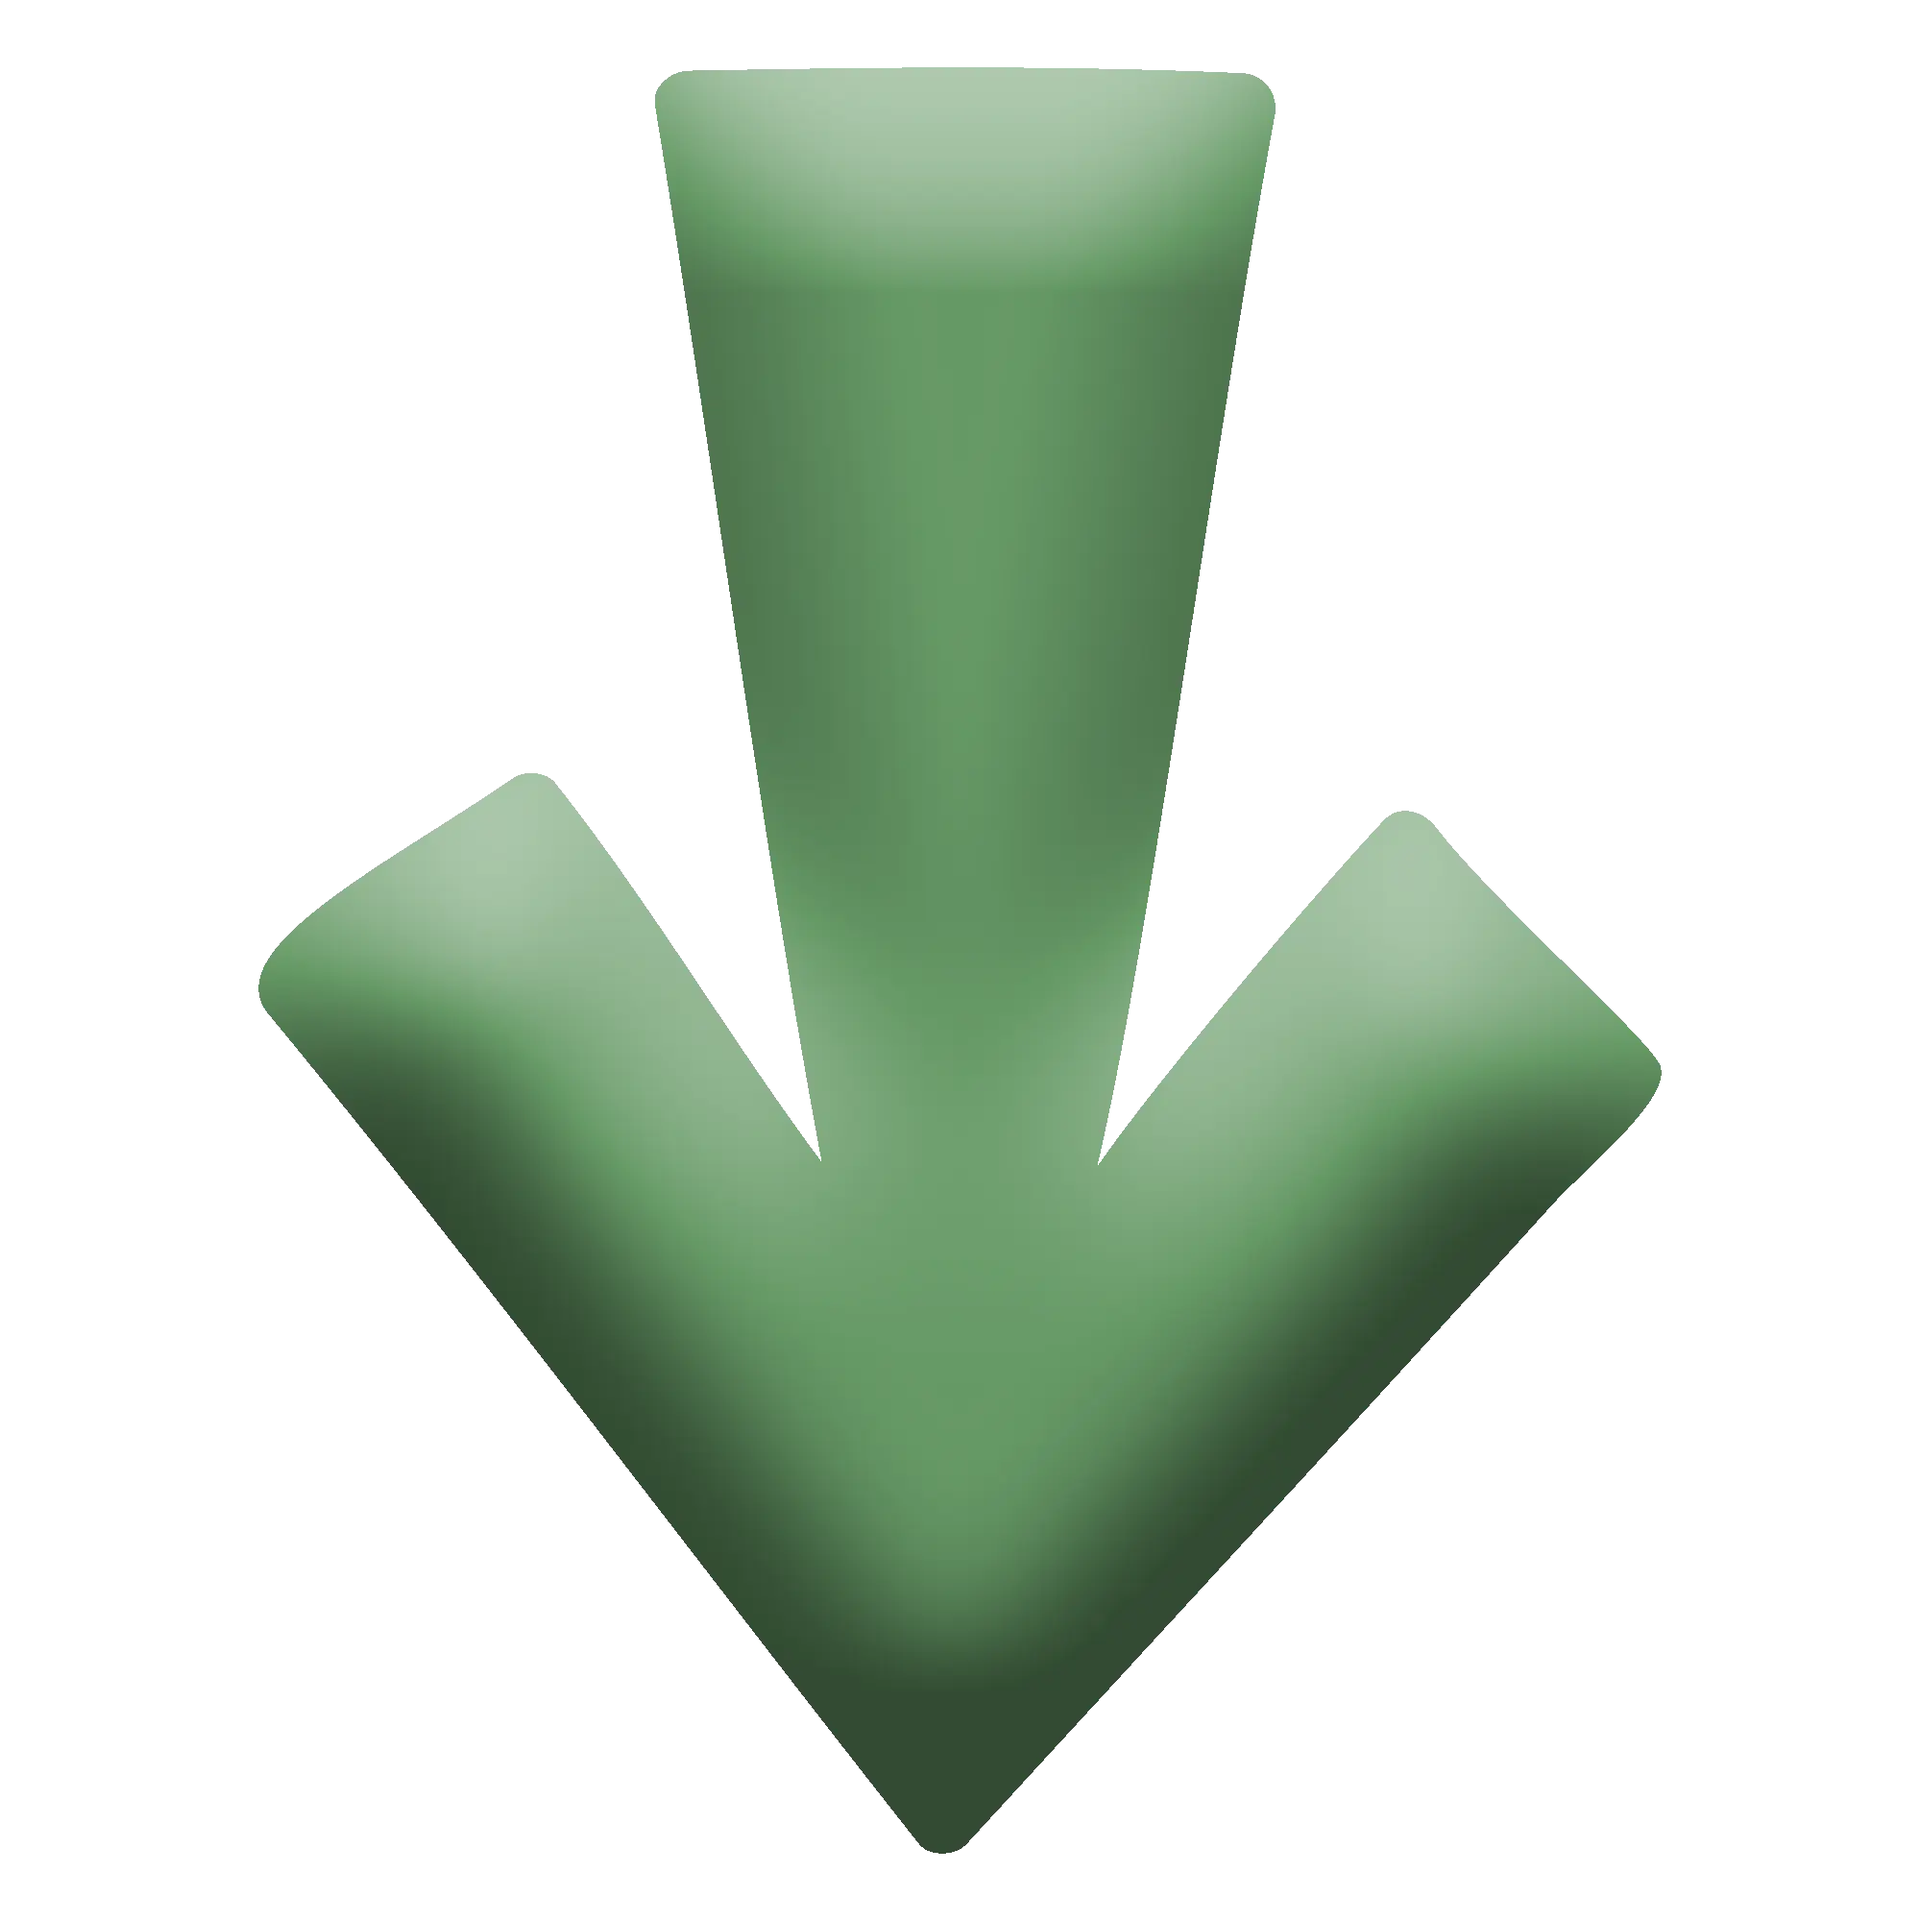
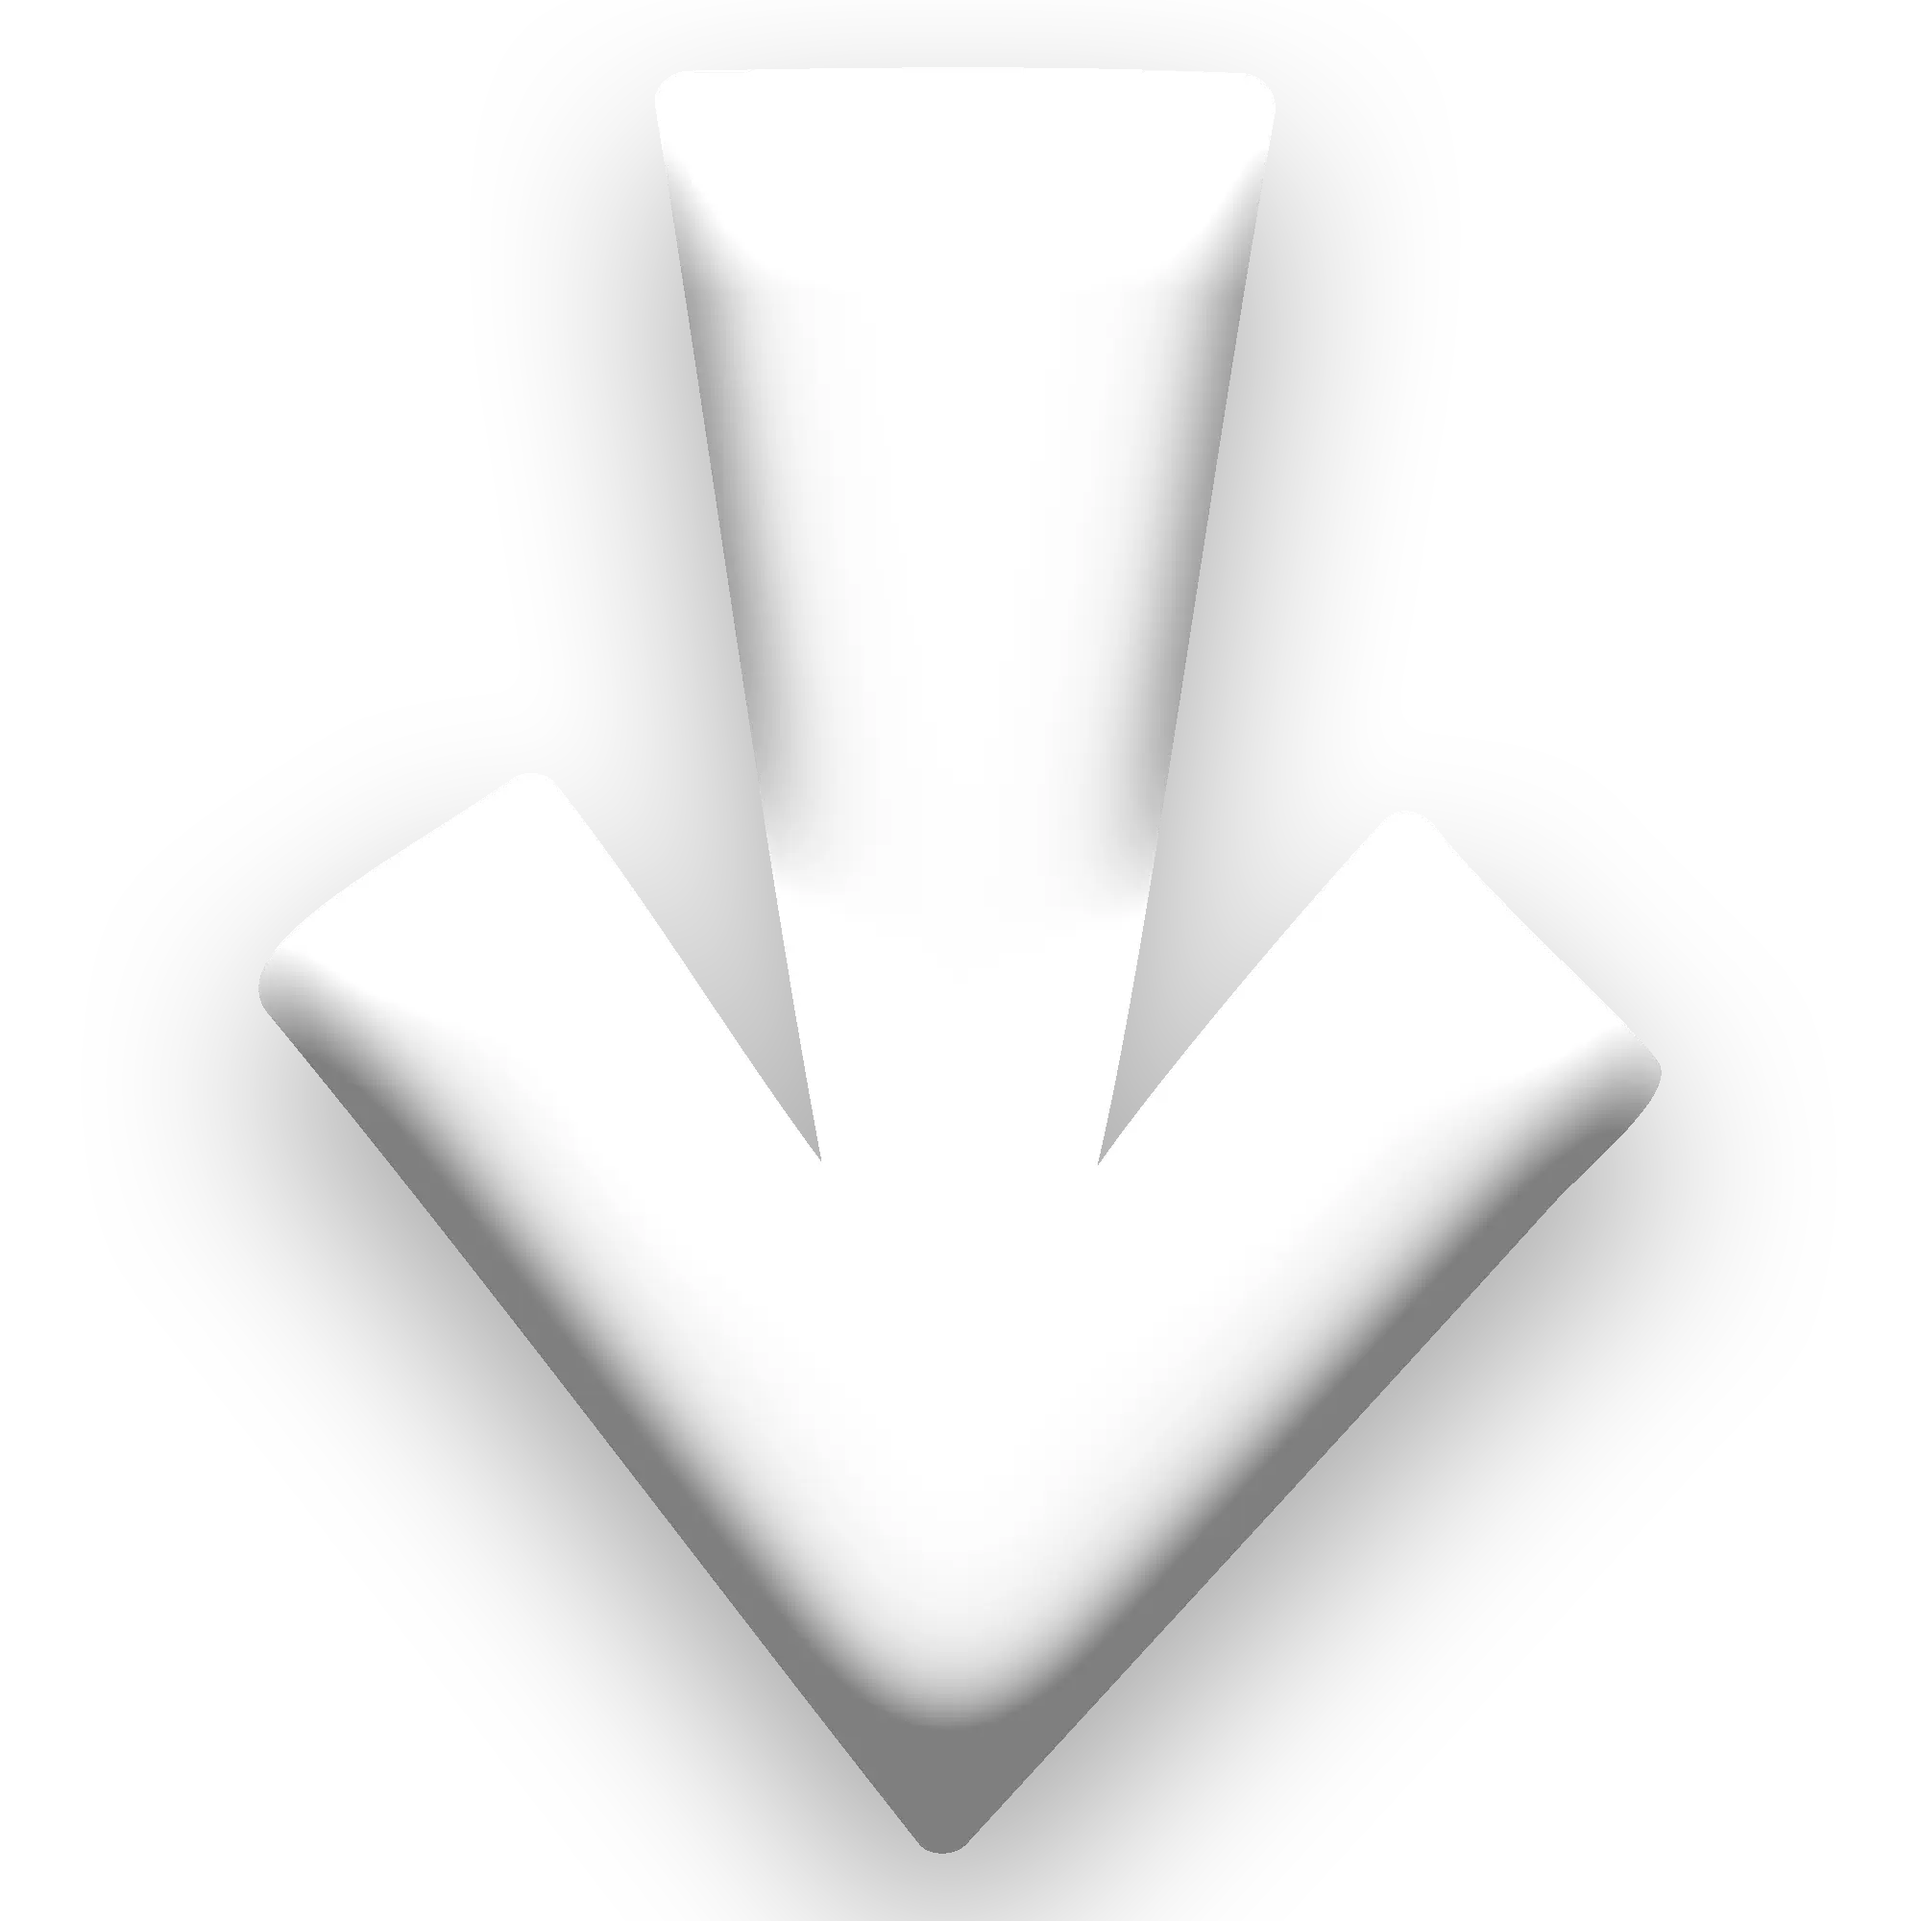
q
q

diff --git a/contenido.html b/contenido.html
@@ -46,19 +46,19 @@
         <p class="hero-location">Tuluá Valle del Cauca</p>   
         <p class="hero-location">Descubre nuestra historia - Baja para continuar</p>  
         <div class="invite-card-decoration">
-            <img src="assets/Flechas.webp" class="flor-responsiva" alt="Flor">
+            <img src="assets/Flechas.webp" class="flecha-responsiva" alt="Continuar abajo">
         </div>
     </div>
 </section>
 
 <!-- 2. FOTO INTERMEDIA (NO TIENE FLORES) -->
 <div class="seccion-foto-intermedia">
-    <img src="assets/pareja2.webp" alt="Momento especial" class="foto-pareja">
+    <img src="assets/pareja2.webp" alt="Momento especial" class="foto-pareja" loading="lazy">
 </div>
 
 <!-- CONTROL DE MÚSICA LOCAL -->
 <button id="musicButton" class="music-button hidden" aria-label="Activar música">🔇</button>
-<audio id="weddingMusic" loop preload="auto">
+<audio id="weddingMusic" loop preload="none">
     <source src="assets/1.mp3" type="audio/mpeg">
 </audio>
 
@@ -76,7 +76,7 @@
     <p class="story-text">En el transcurso de estos años hemos recorrido caminos llenos de sol, risas y lugares inolvidables, pero también nos ha tocado atravesar etapas difíciles. Lo verdaderamente hermoso de nuestra historia no ha sido la ausencia de tormentas, sino que jamás nos hemos soltado la mano. Hemos luchado lado a lado, amándonos con más fuerza en cada prueba y construyendo un amor paciente, firme y verdadero.</p>
     <p class="story-text">Hemos conocido a muchas personas y descubierto rincones maravillosos, pero entendimos que el lugar más bonito del mundo siempre será donde estemos los dos. Hoy miramos al futuro con la certeza de que nuestra historia apenas empieza, y porque has formado parte fundamental de este camino, queremos celebrar el amor y este nuevo comienzo a tu lado.</p>
     <div class="story-photo">
-        <img src="assets/pareja.webp" alt="💓">
+        <img src="assets/pareja.webp" alt="💓" loading="lazy">
         <div class="photo-frame"></div>
     </div>
 </section>
@@ -178,7 +178,7 @@
 
 <!-- 2. FOTO INTERMEDIA (NO TIENE FLORES) -->
 <div class="seccion-foto-intermedia">
-    <img src="assets/pareja3.webp" alt="Momento especial" class="foto-pareja">
+    <img src="assets/pareja3.webp" alt="Momento especial" class="foto-pareja" loading="lazy">
 </div>
 
 <footer>

diff --git a/assets/style.css b/assets/style.css
@@ -1,28 +1,21 @@
 /* =====================================================
    VARIABLES
 ===================================================== */
-
 :root {
     --green-dark: #435745;
     --green: #748b73;
     --green-light: #aebdaa;
     --green-soft: #dfe7dc;
-
     --cream: #f8f6ef;
     --cream-dark: #eee9dc;
-
     --gold: #b89a5d;
     --gold-light: #d7c08b;
-
     --white: #ffffff;
     --text: #435044;
-
     --shadow:
         0 15px 40px rgba(54, 72, 55, 0.12);
-
     --radius: 22px;
 }
-
 /* =====================================================
    RESET
 ===================================================== */
@@ -1824,4 +1817,12 @@ footer h2 {
     color: var(--gold, #b89a5d);
     text-transform: uppercase;
     text-shadow: 0px 2px 5px rgba(0, 0, 0, 0.4);
+}
+/* Clase exclusiva para ajustar el tamaño de la flecha */
+.flecha-responsiva {
+    width: clamp(30px, 8vw, 55px); /* Ajusta a tu gusto: mínimo 30px, máximo 55px */
+    height: auto;
+    display: block;
+    margin: 15px auto 0;
+    object-fit: contain;
 }

diff --git a/index.html b/index.html
@@ -59,7 +59,7 @@
 <div id="frameLoader" class="frame-loader">Anderson & Esmeralda</div>
 
 <!-- Música global: nunca se reinicia porque vive en el maestro, no en el iframe -->
-<audio id="weddingMusic" loop preload="auto">
+<audio id="weddingMusic" loop preload="none">
     <source src="assets/1.mp3" type="audio/mpeg">
 </audio>
 
@@ -97,11 +97,17 @@ musicButton.addEventListener("click", () => {
 });
 
 // Oculta el loader la primera vez que el iframe carga contenido
-channel.addEventListener("load", () => {
-    loader.classList.add("hide");
-});
-
+let loaderOculto = false;
+function ocultarLoader() {
+    if (!loaderOculto) {
+        loader.classList.add("hide");
+        loaderOculto = true;
+    }
+}
+channel.addEventListener("load", ocultarLoader);
+setTimeout(ocultarLoader, 600); // Fuerza la ocultación tras 600ms
 // Escucha mensajes de las páginas hijas (nav.js) para cambiar de canal
+
 window.addEventListener("message", (event) => {
     const msg = event.data;
     if (!msg || typeof msg !== "object") return;

diff --git a/assets/nav.js b/assets/nav.js
@@ -54,7 +54,7 @@ document.addEventListener("DOMContentLoaded", () => {
     crearPetalos();
 });
 
-function crearPetalos(contenedor = document.body, cantidad = 8, simbolos = ['assets/4.png', 'assets/5.png', 'assets/6.png']) {
+function crearPetalos(contenedor = document.body, cantidad = 8, simbolos = ['assets/4.webp', 'assets/5.webp', 'assets/6.webp']) {
     const target = contenedor || document.body;
     if (!target) return;
 
